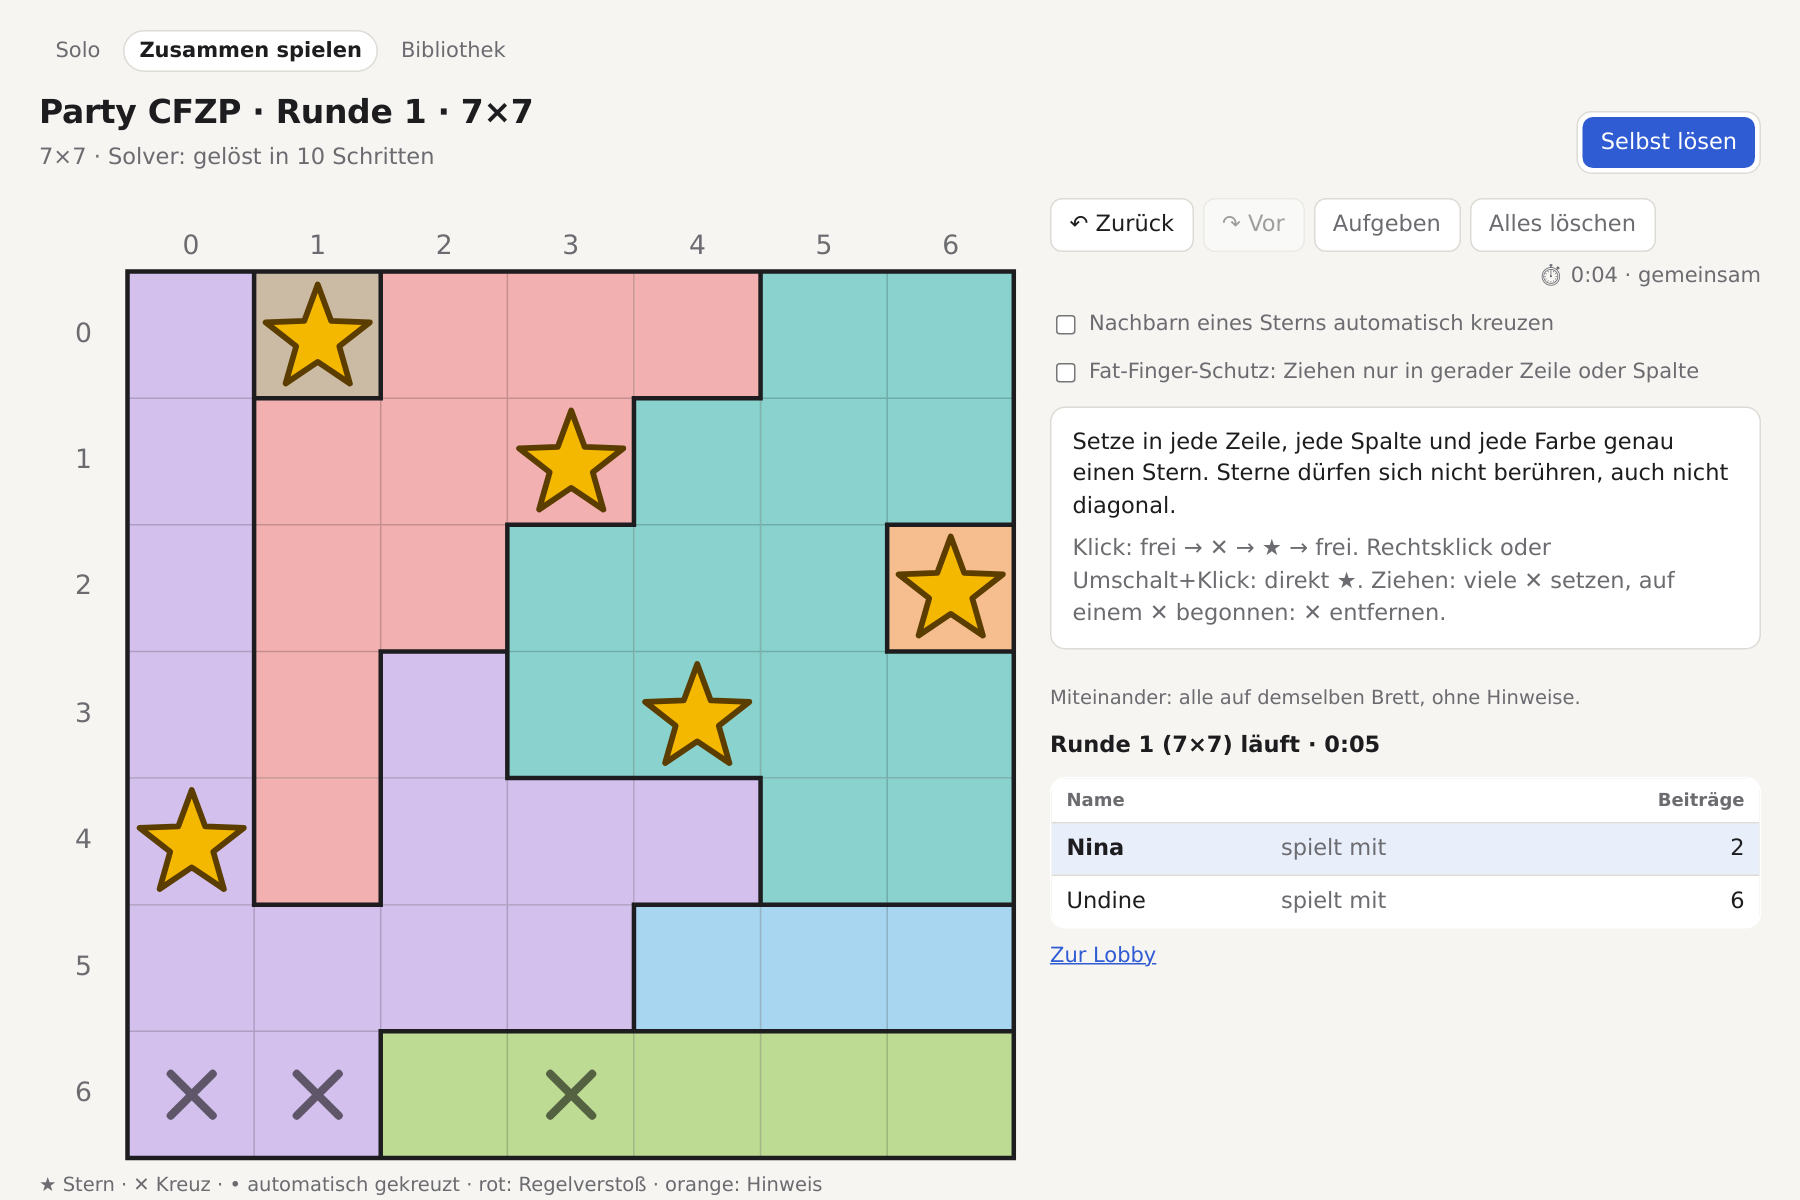
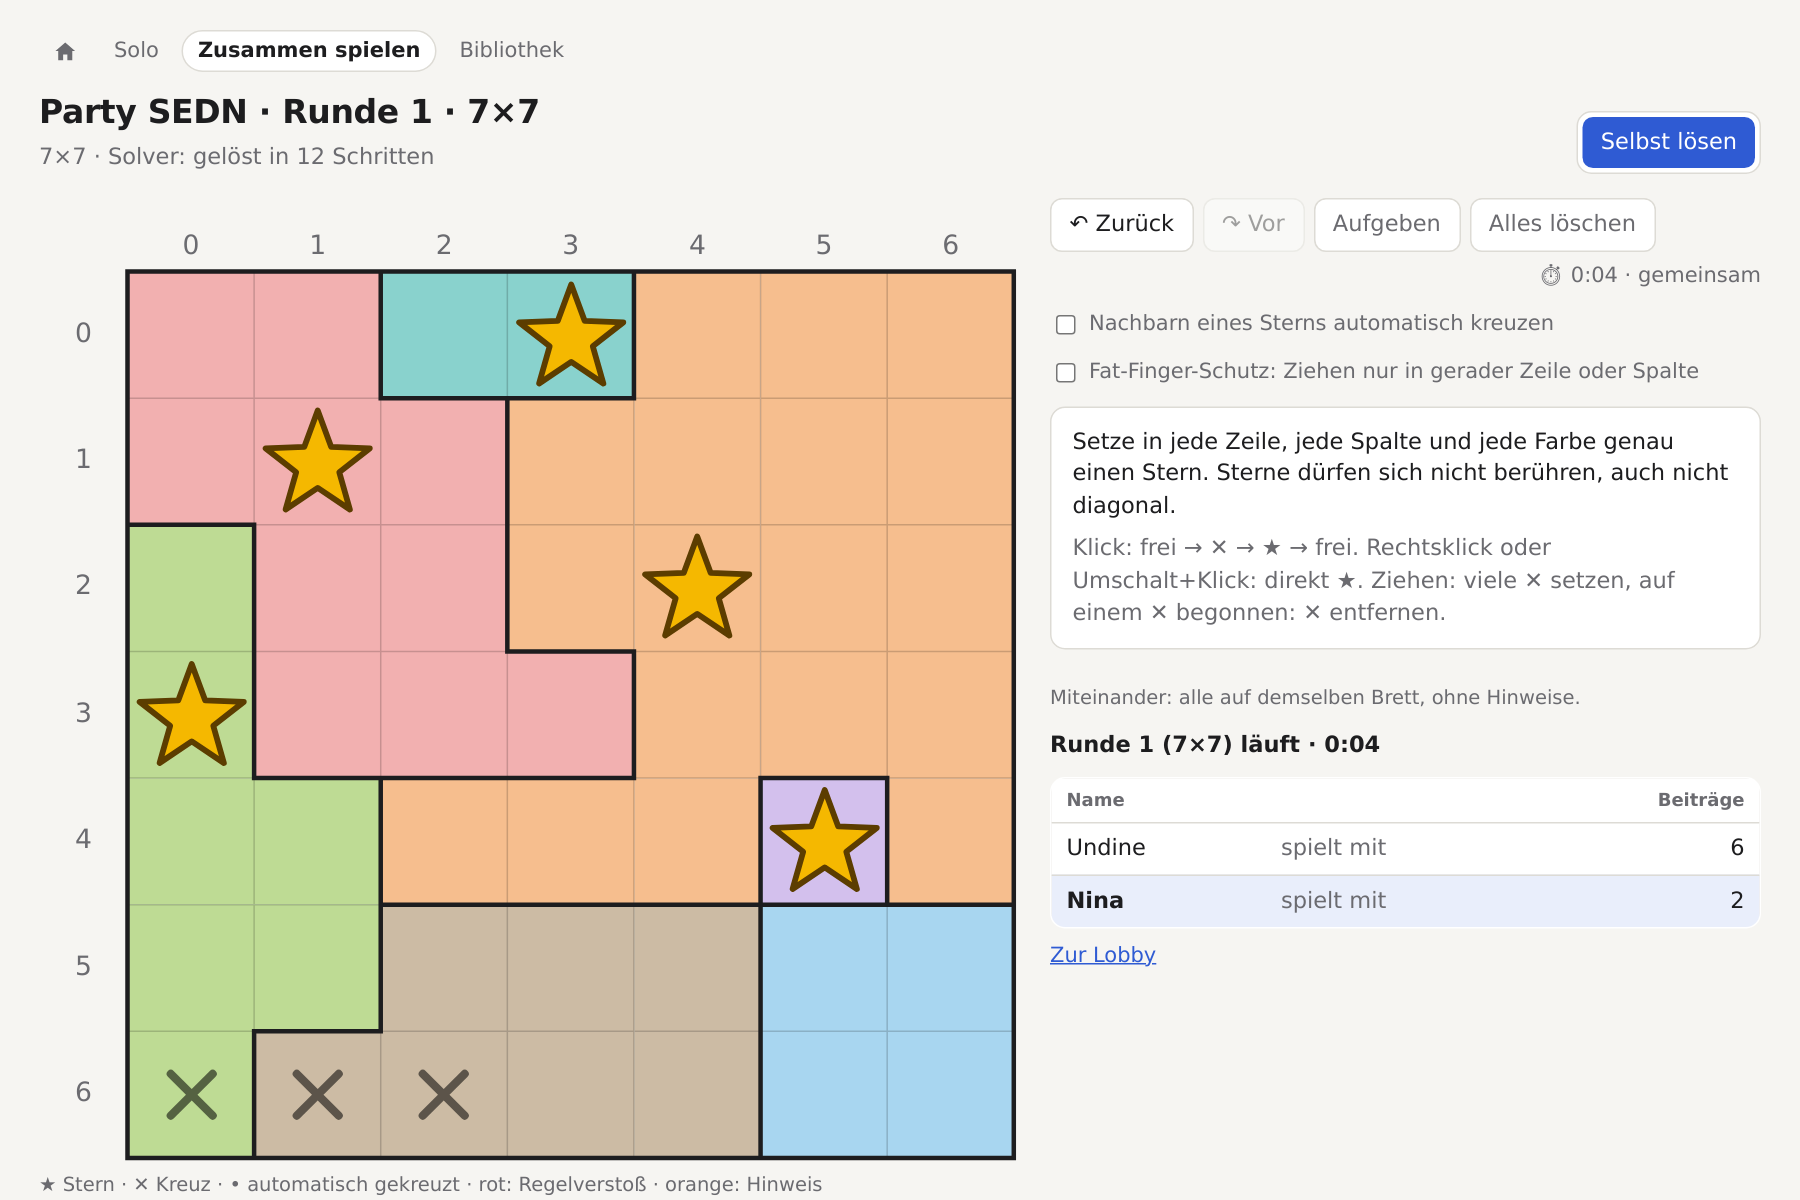
Screenshots neu mit Home-Symbol, Aufnahme-Skript im Repo
Alle acht Bilder sind neu aufgenommen, jetzt mit dem Haus-Symbol in der
Navigation (gleicher Maßstab: 1200×800 bei Faktor 1,5). Dazu kommt
docs/screenshots/take.sh mit shots.mjs ins Repo: Es baut den Server,
startet ein headless Chromium und stellt jede Ansicht über das
DevTools-Protokoll ein, ohne zusätzliche Pakete. FONTS gibt bei Bedarf
eine Schrift für ⏱ vor.

diff --git a/PLAN.md b/PLAN.md
@@ -110,7 +110,7 @@ _(leer: nächsten Punkt aus „Später“ auswählen)_
    - **Ziehen** setzt viele ✕ auf einmal (auf einem ✕ begonnen: entfernt sie), Sterne bleiben unberührt, ein Zug = ein Rückgängig-Schritt; auch per Touch.
    - **Farben statt Buchstaben:** In allen Texten steht statt „Farbe B“ ein Farbfeld in der Farbe der Region; Zeigen (Touch: Antippen) hebt die Region auf dem Brett hervor. Feste Palette aus 12 abgestimmten Farben (mehr Regionen: berechnete Farbtöne), eigene Varianten für den dunklen Modus. Die Buchstaben in den Feldecken sind entfallen.
    - Hell/dunkel nach Systemeinstellung, Handy-Layout ohne horizontales Scrollen.
-   - Tests: `internal/web` (Daten, Escaping, `logic_test.js` mit node: wer nur den Hinweisen folgt, löst alle schweren Puzzles ohne Fehler). Die Oberfläche selbst wurde mit jsdom und Chromium-Screenshots geprüft, diese Skripte liegen nicht im Repo.
+   - Tests: `internal/web` (Daten, Escaping, `logic_test.js` mit node: wer nur den Hinweisen folgt, löst alle schweren Puzzles ohne Fehler). Die Oberfläche selbst wurde mit jsdom und Chromium-Screenshots geprüft; die Screenshots der README nimmt `docs/screenshots/take.sh` auf, die jsdom-Prüfungen liegen nicht im Repo.
    - **`starbattle serve [-addr localhost:6369] [Solver-Optionen]`:** dieselbe Seite vom Server, mit „Neues Puzzle“ (Größe 4 bis 14) und „Eigenes…“ (Puzzle als Text einfügen, vorbelegt mit dem aktuellen). Jedes Puzzle hat eine feste URL (`/?n=8&seed=123` wie `generate -seed`, `/play?p=AAB/…`), Neuladen behält also Puzzle und Fortschritt. Mehrdeutige Puzzles werden ohne Lösung gezeigt, unlösbare abgelehnt.
    - **Vorrat (`web.Pool`):** `serve` hält je Größe 4 bis 14 ein fertig erzeugtes und gelöstes Puzzle bereit; eine Hintergrund-Goroutine füllt die Größen nacheinander (kleine zuerst) und nach jeder Ausgabe nach. „Neues Puzzle“ (`/?n=N`) leitet auf den Seed des bereitliegenden Puzzles um, dessen Seite dann ohne Rechnen kommt (14×14: 2,5 ms statt 2,6 bis 3,9 s). Das Puzzle ist genau das seines Seeds, die URL bleibt also gültig. Ist die Größe gerade leer, wird wie vorher ein zufälliger Seed erzeugt. `-no-pregen` schaltet ab.
    - Offen: Hinweise bei Brettern, die vom Trace abweichen, sind nicht immer der einfachste mögliche Schritt (jetzt mit `serve` machbar: Solver auf dem aktuellen Brett starten); Stern per langem Druck auf dem Handy.

diff --git a/README.md b/README.md
@@ -209,7 +209,7 @@ Dazu die Solver-Optionen wie bei `solve`. Für den Betrieb auf einem Raspberry P
 | `internal/web` | HTML-Seite, Server, Party-Modus, Bibliothek |
 | `deploy` | Installation als systemd-Dienst auf dem Raspberry Pi |
 | `testdata/hard` | Puzzles, an denen die einfachen Regeln scheitern; zugleich die Bibliothek im Browser (Reihenfolge in `bibliothek.idx`) |
-| `docs/screenshots` | Bilder für diese README |
+| `docs/screenshots` | Bilder für diese README; `take.sh` nimmt sie neu auf (Go, node ≥ 22, Chromium) |
 | `.github/workflows` | Tests und Builds auf GitHub Actions |
 
 ## Lizenz
